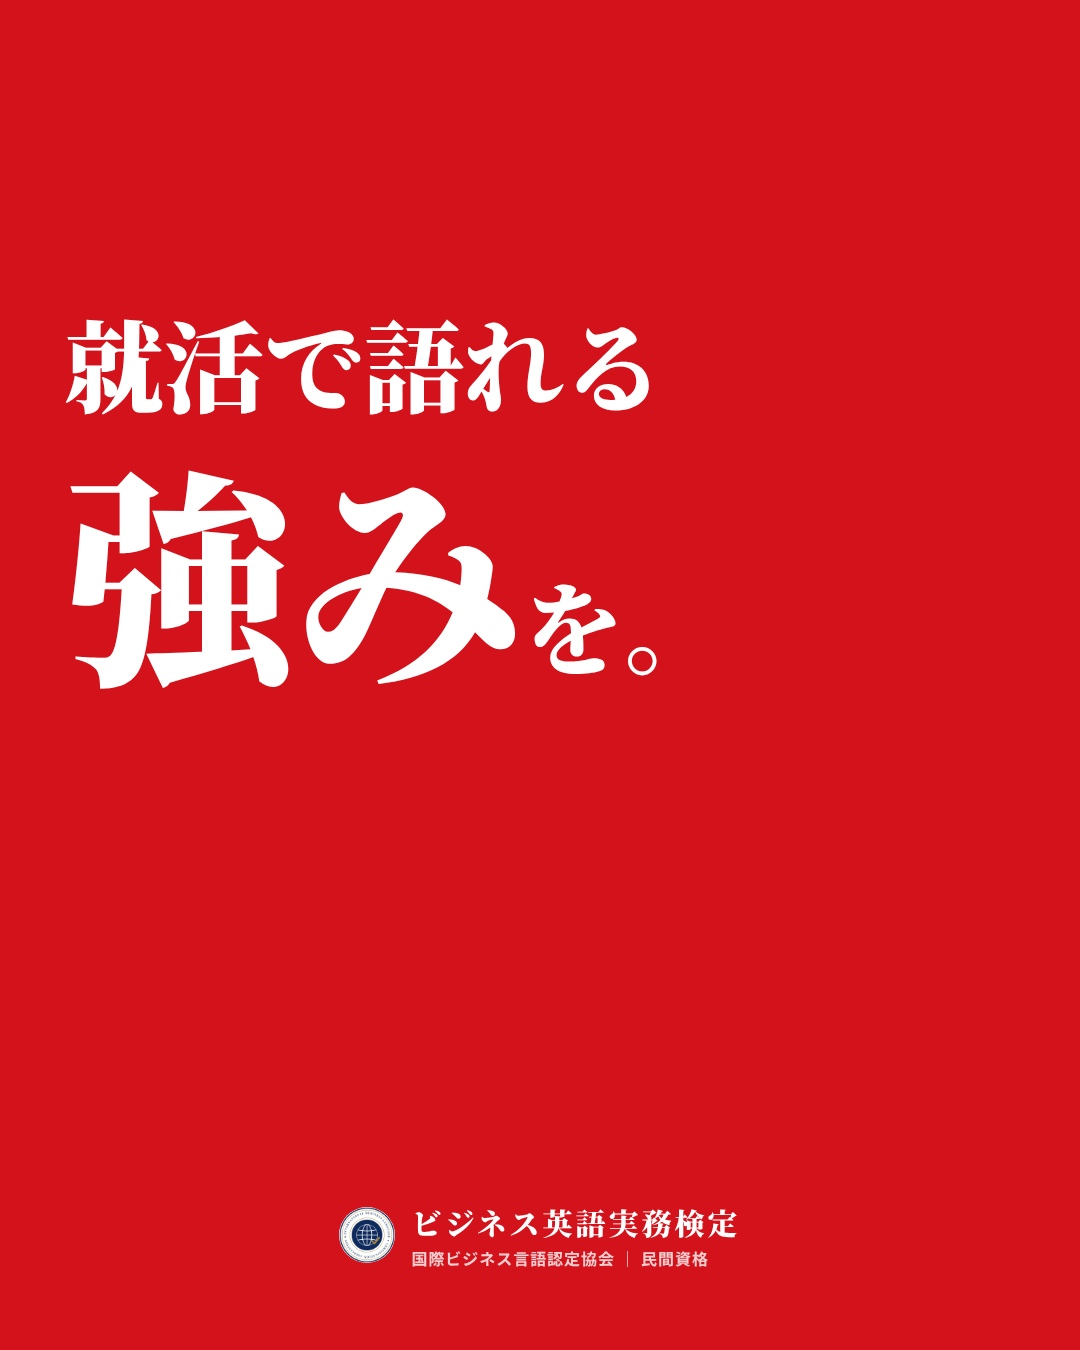
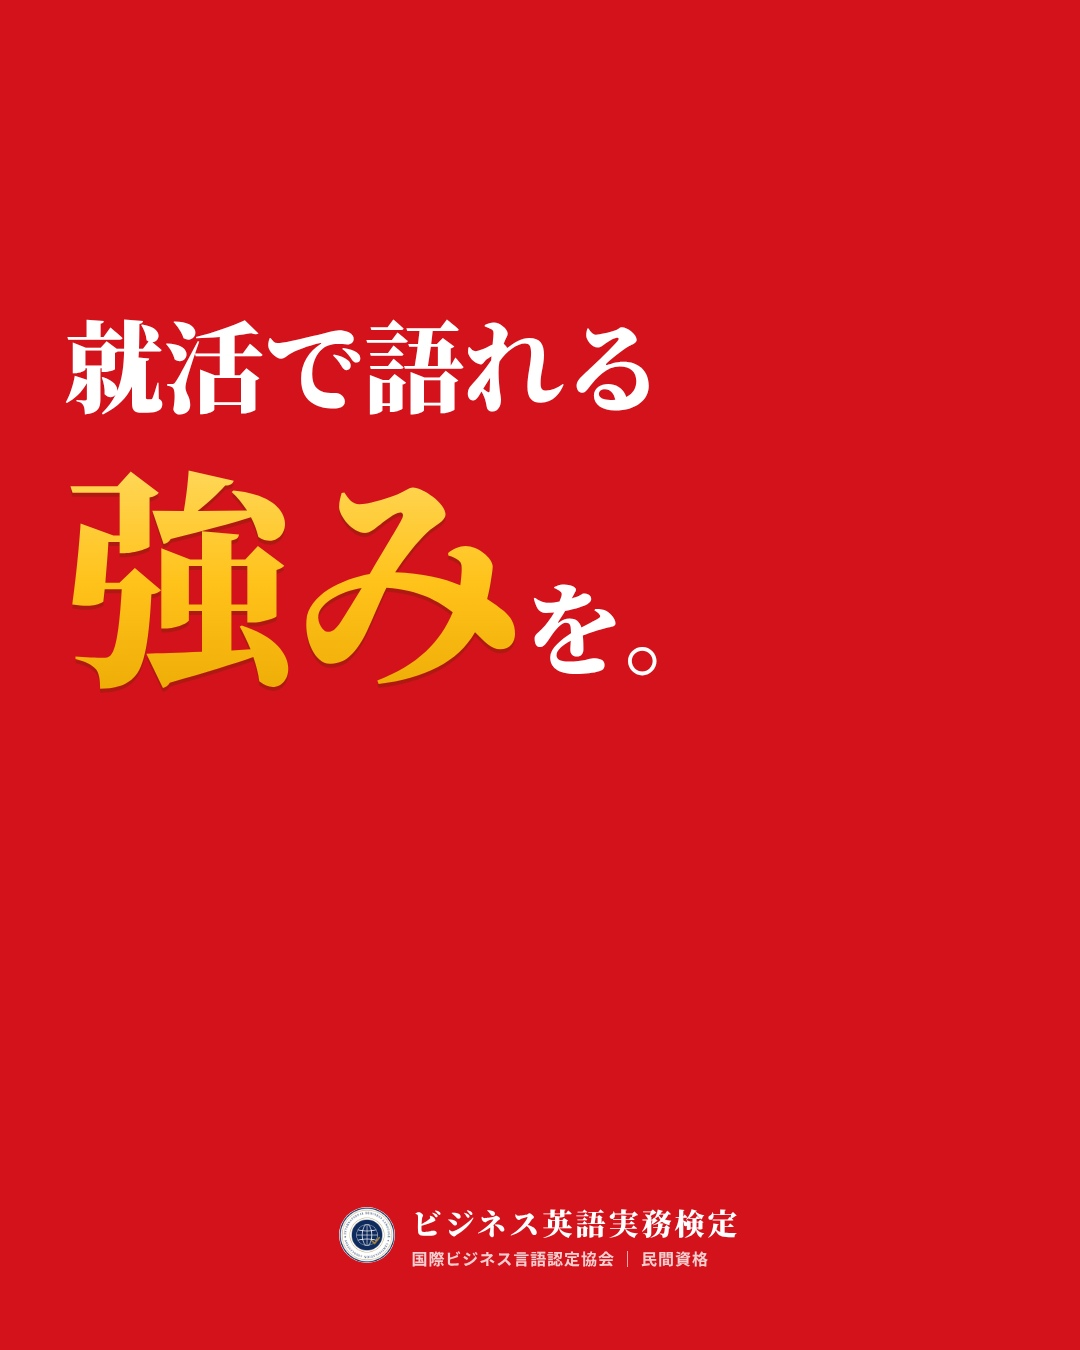
ポスター J4：強みを強い金に
Claude-Session: https://claude.ai/code/session_014p5jKzC7vmuyPAkeTgUdi2

Changed region(s): [[0.0611, 0.3422, 0.4889, 0.5289]]

diff --git a/content/posters/formats/j4.html b/content/posters/formats/j4.html
@@ -10,7 +10,7 @@ body{background:#d3121c;color:#fff;font-family:"Noto Serif CJK JP",serif;-webkit
 .ft{position:absolute;left:0;right:0;bottom:80px;display:flex;align-items:center;justify-content:center;gap:16px}
 .ft img{width:56px;height:56px;border-radius:50%;background:#fff}.ft .n{font-weight:900;font-size:30px;letter-spacing:.1em}
 .ft .s{font-family:"Noto Sans CJK JP";font-weight:700;font-size:16px;letter-spacing:.06em;opacity:.8;margin-top:2px}
-.g{color:#f6c85f;text-shadow:0 2px 0 rgba(120,60,0,.25)}.s1{font-size:94px}.s2{font-size:170px;line-height:1.3}.s1{font-size:100px}.s3{font-size:230px;line-height:1.2}</style></head><body>
+.g{color:#f6c85f;text-shadow:0 2px 0 rgba(120,60,0,.25)}.s1{font-size:94px}.s2{font-size:170px;line-height:1.3}.s1{font-size:100px}.s3{font-size:230px;line-height:1.2;color:#ffc82e;background:linear-gradient(180deg,#ffe27a 0%,#ffc21a 55%,#e9a400 100%);-webkit-background-clip:text;background-clip:text;-webkit-text-fill-color:transparent;filter:drop-shadow(0 4px 0 rgba(110,40,0,.35))}</style></head><body>
 <div class="w"><div class="b"><span class="s1">就活で語れる</span><br><span class="s3">強み</span><span class="s1">を。</span></div></div>
 <div class="ft"><img src="logo.png"><div><div class="n">ビジネス英語実務検定</div><div class="s">国際ビジネス言語認定協会 ｜ 民間資格</div></div></div>
 </body></html>

diff --git a/log/posted.md b/log/posted.md
@@ -159,3 +159,4 @@
 - 2026-11-02 作成｜ポスター J3「就活で語れる強みを、／今。」2行版（今。を大きく）｜未投稿
 - 2026-11-02 修正｜ポスター J3：今を少し小さく金に、強みは白に
 - 2026-11-02 作成｜ポスター J4「就活で語れる／強みを。」（強みだけ特大・白）｜未投稿
+- 2026-11-02 修正｜ポスター J4：強みを強い金（グラデーション）に
